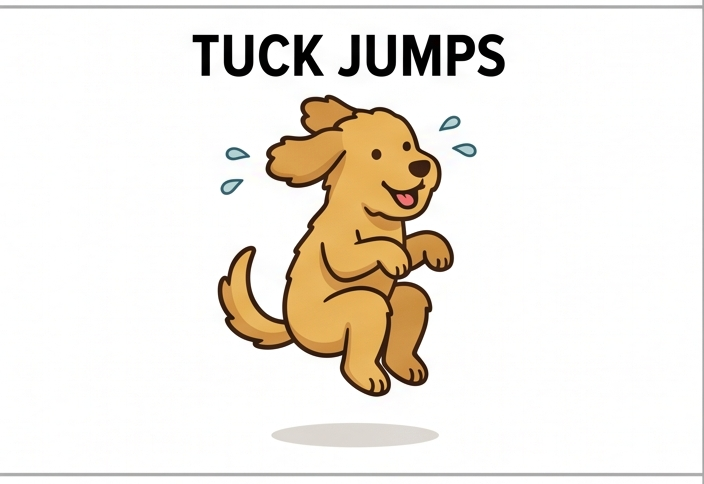
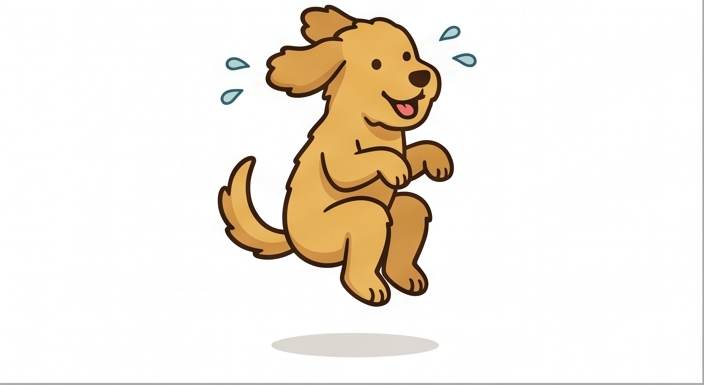
Crop text from exercise images and sync animations to rep countdown
Remove baked-in text labels from all 12 exercise PNGs. Animations now
only play during active sets (not rest/transitions), pause when the
workout is paused, and cycle once per rep (SECONDS_PER_REP = 3s).

Changed region(s): [[0.0, 0.0, 1.0, 0.9039], [0.0, 0.9662, 1.0, 1.0], [0.5625, 0.8727, 0.625, 0.9039]]

diff --git a/src/App.css b/src/App.css
@@ -1075,6 +1075,116 @@
   object-fit: contain;
 }
 
+/* ================================================================== */
+/* EXERCISE IMAGE ANIMATIONS — synced to rep countdown                 */
+/* ================================================================== */
+
+/* Only animate when .ex-animating is present (active set, not paused) */
+.ex-animating {
+  animation-duration: var(--anim-dur, 3s);
+  animation-timing-function: ease-in-out;
+  animation-iteration-count: infinite;
+}
+
+/* Sit-ups: rock/curl up and back */
+@keyframes anim-situps {
+  0%, 100% { transform: rotate(0deg) translateY(0); }
+  50% { transform: rotate(-8deg) translateY(-6px); }
+}
+.ex-anim-situps.ex-animating { animation-name: anim-situps; }
+
+/* Lunges: dip forward and back */
+@keyframes anim-lunges {
+  0%, 100% { transform: translateX(0) translateY(0); }
+  50% { transform: translateX(-8px) translateY(5px); }
+}
+.ex-anim-lunges.ex-animating { animation-name: anim-lunges; }
+
+/* Plank: subtle breathing pulse */
+@keyframes anim-planks {
+  0%, 100% { transform: scaleY(1) scaleX(1); }
+  50% { transform: scaleY(1.03) scaleX(1.01); }
+}
+.ex-anim-planks { transform-origin: center bottom; }
+.ex-anim-planks.ex-animating { animation-name: anim-planks; }
+
+/* Squats: bounce down and up */
+@keyframes anim-squats {
+  0%, 100% { transform: translateY(0) scaleY(1); }
+  50% { transform: translateY(8px) scaleY(0.95); }
+}
+.ex-anim-squats { transform-origin: center bottom; }
+.ex-anim-squats.ex-animating { animation-name: anim-squats; }
+
+/* Tuck jumps: bounce high */
+@keyframes anim-jumps {
+  0%, 100% { transform: translateY(0) scale(1); }
+  40% { transform: translateY(-18px) scale(1.05); }
+  60% { transform: translateY(-18px) scale(1.05); }
+}
+.ex-anim-jumps.ex-animating {
+  animation-name: anim-jumps;
+  animation-timing-function: cubic-bezier(0.4, 0, 0.2, 1);
+}
+
+/* Push-ups: tilt down and up */
+@keyframes anim-pushups {
+  0%, 100% { transform: rotate(0deg) translateY(0); }
+  50% { transform: rotate(3deg) translateY(6px); }
+}
+.ex-anim-pushups { transform-origin: right center; }
+.ex-anim-pushups.ex-animating { animation-name: anim-pushups; }
+
+/* Burpees: multi-phase squat then jump */
+@keyframes anim-burpees {
+  0% { transform: translateY(0) scaleY(1); }
+  25% { transform: translateY(8px) scaleY(0.92); }
+  50% { transform: translateY(-14px) scaleY(1.04); }
+  75% { transform: translateY(-14px) scaleY(1.04); }
+  100% { transform: translateY(0) scaleY(1); }
+}
+.ex-anim-burpees.ex-animating { animation-name: anim-burpees; }
+
+/* Jump squats: squat down then spring up */
+@keyframes anim-jump-squats {
+  0% { transform: translateY(0) scale(1); }
+  30% { transform: translateY(6px) scale(0.97); }
+  60% { transform: translateY(-16px) scale(1.05); }
+  80% { transform: translateY(-16px) scale(1.05); }
+  100% { transform: translateY(0) scale(1); }
+}
+.ex-anim-jump-squats.ex-animating { animation-name: anim-jump-squats; }
+
+/* Jumping jacks: spread/pulse scale */
+@keyframes anim-jumping-jacks {
+  0%, 100% { transform: scaleX(1) translateY(0); }
+  50% { transform: scaleX(1.06) translateY(-8px); }
+}
+.ex-anim-jumping-jacks.ex-animating { animation-name: anim-jumping-jacks; }
+
+/* Mountain climbers: rock side to side */
+@keyframes anim-mountain-climbers {
+  0%, 100% { transform: rotate(0deg) translateX(0); }
+  25% { transform: rotate(-2deg) translateX(-5px); }
+  75% { transform: rotate(2deg) translateX(5px); }
+}
+.ex-anim-mountain-climbers.ex-animating { animation-name: anim-mountain-climbers; }
+
+/* Hip bridges: lift upward */
+@keyframes anim-hip-bridges {
+  0%, 100% { transform: translateY(0); }
+  50% { transform: translateY(-10px); }
+}
+.ex-anim-hip-bridges { transform-origin: center bottom; }
+.ex-anim-hip-bridges.ex-animating { animation-name: anim-hip-bridges; }
+
+/* Supermans: float and glide */
+@keyframes anim-supermans {
+  0%, 100% { transform: translateY(0) rotate(-1deg); }
+  50% { transform: translateY(-10px) rotate(1deg); }
+}
+.ex-anim-supermans.ex-animating { animation-name: anim-supermans; }
+
 /* Tappable card hover */
 .ex-card.ex-upcoming:hover,
 .ex-card.ex-done:hover {

diff --git a/src/components/ExerciseCard.tsx b/src/components/ExerciseCard.tsx
@@ -1,5 +1,6 @@
 import { useEffect, useRef, useState } from 'react'
 import type { Exercise } from '../types'
+import { SECONDS_PER_REP } from '../data/program'
 
 type Props = {
   exercise: Exercise
@@ -7,6 +8,7 @@ type Props = {
   currentSet?: number
   phaseSecondsLeft?: number
   phaseLabel?: string
+  paused?: boolean
   onJumpTo?: () => void
 }
 
@@ -31,6 +33,7 @@ export function ExerciseCard({
   currentSet,
   phaseSecondsLeft,
   phaseLabel,
+  paused,
   onJumpTo,
 }: Props) {
   const [expanded, setExpanded] = useState(false)
@@ -99,7 +102,18 @@ export function ExerciseCard({
           <div className="ex-expanded">
             <div className="ex-gif-wrap">
               <img
-                className="ex-exercise-img"
+                className={`ex-exercise-img ex-anim-${exercise.id}${
+                  status === 'active' && phaseLabel?.startsWith('Set') && !paused
+                    ? ' ex-animating'
+                    : ''
+                }`}
+                style={
+                  status === 'active' && phaseLabel?.startsWith('Set')
+                    ? ({
+                        '--anim-dur': `${exercise.reps === 'hold' ? 3 : SECONDS_PER_REP}s`,
+                      } as React.CSSProperties)
+                    : undefined
+                }
                 src={`/exercises/${exercise.id}.png`}
                 alt={`${exercise.name} demonstration`}
               />

diff --git a/src/screens/TodayScreen.tsx b/src/screens/TodayScreen.tsx
@@ -128,6 +128,7 @@ export function TodayScreen({
                   : undefined
               }
               phaseLabel={phaseLabel(idx)}
+              paused={session.paused}
               onJumpTo={() => session.startFromExercise(idx)}
             />
           ))}
